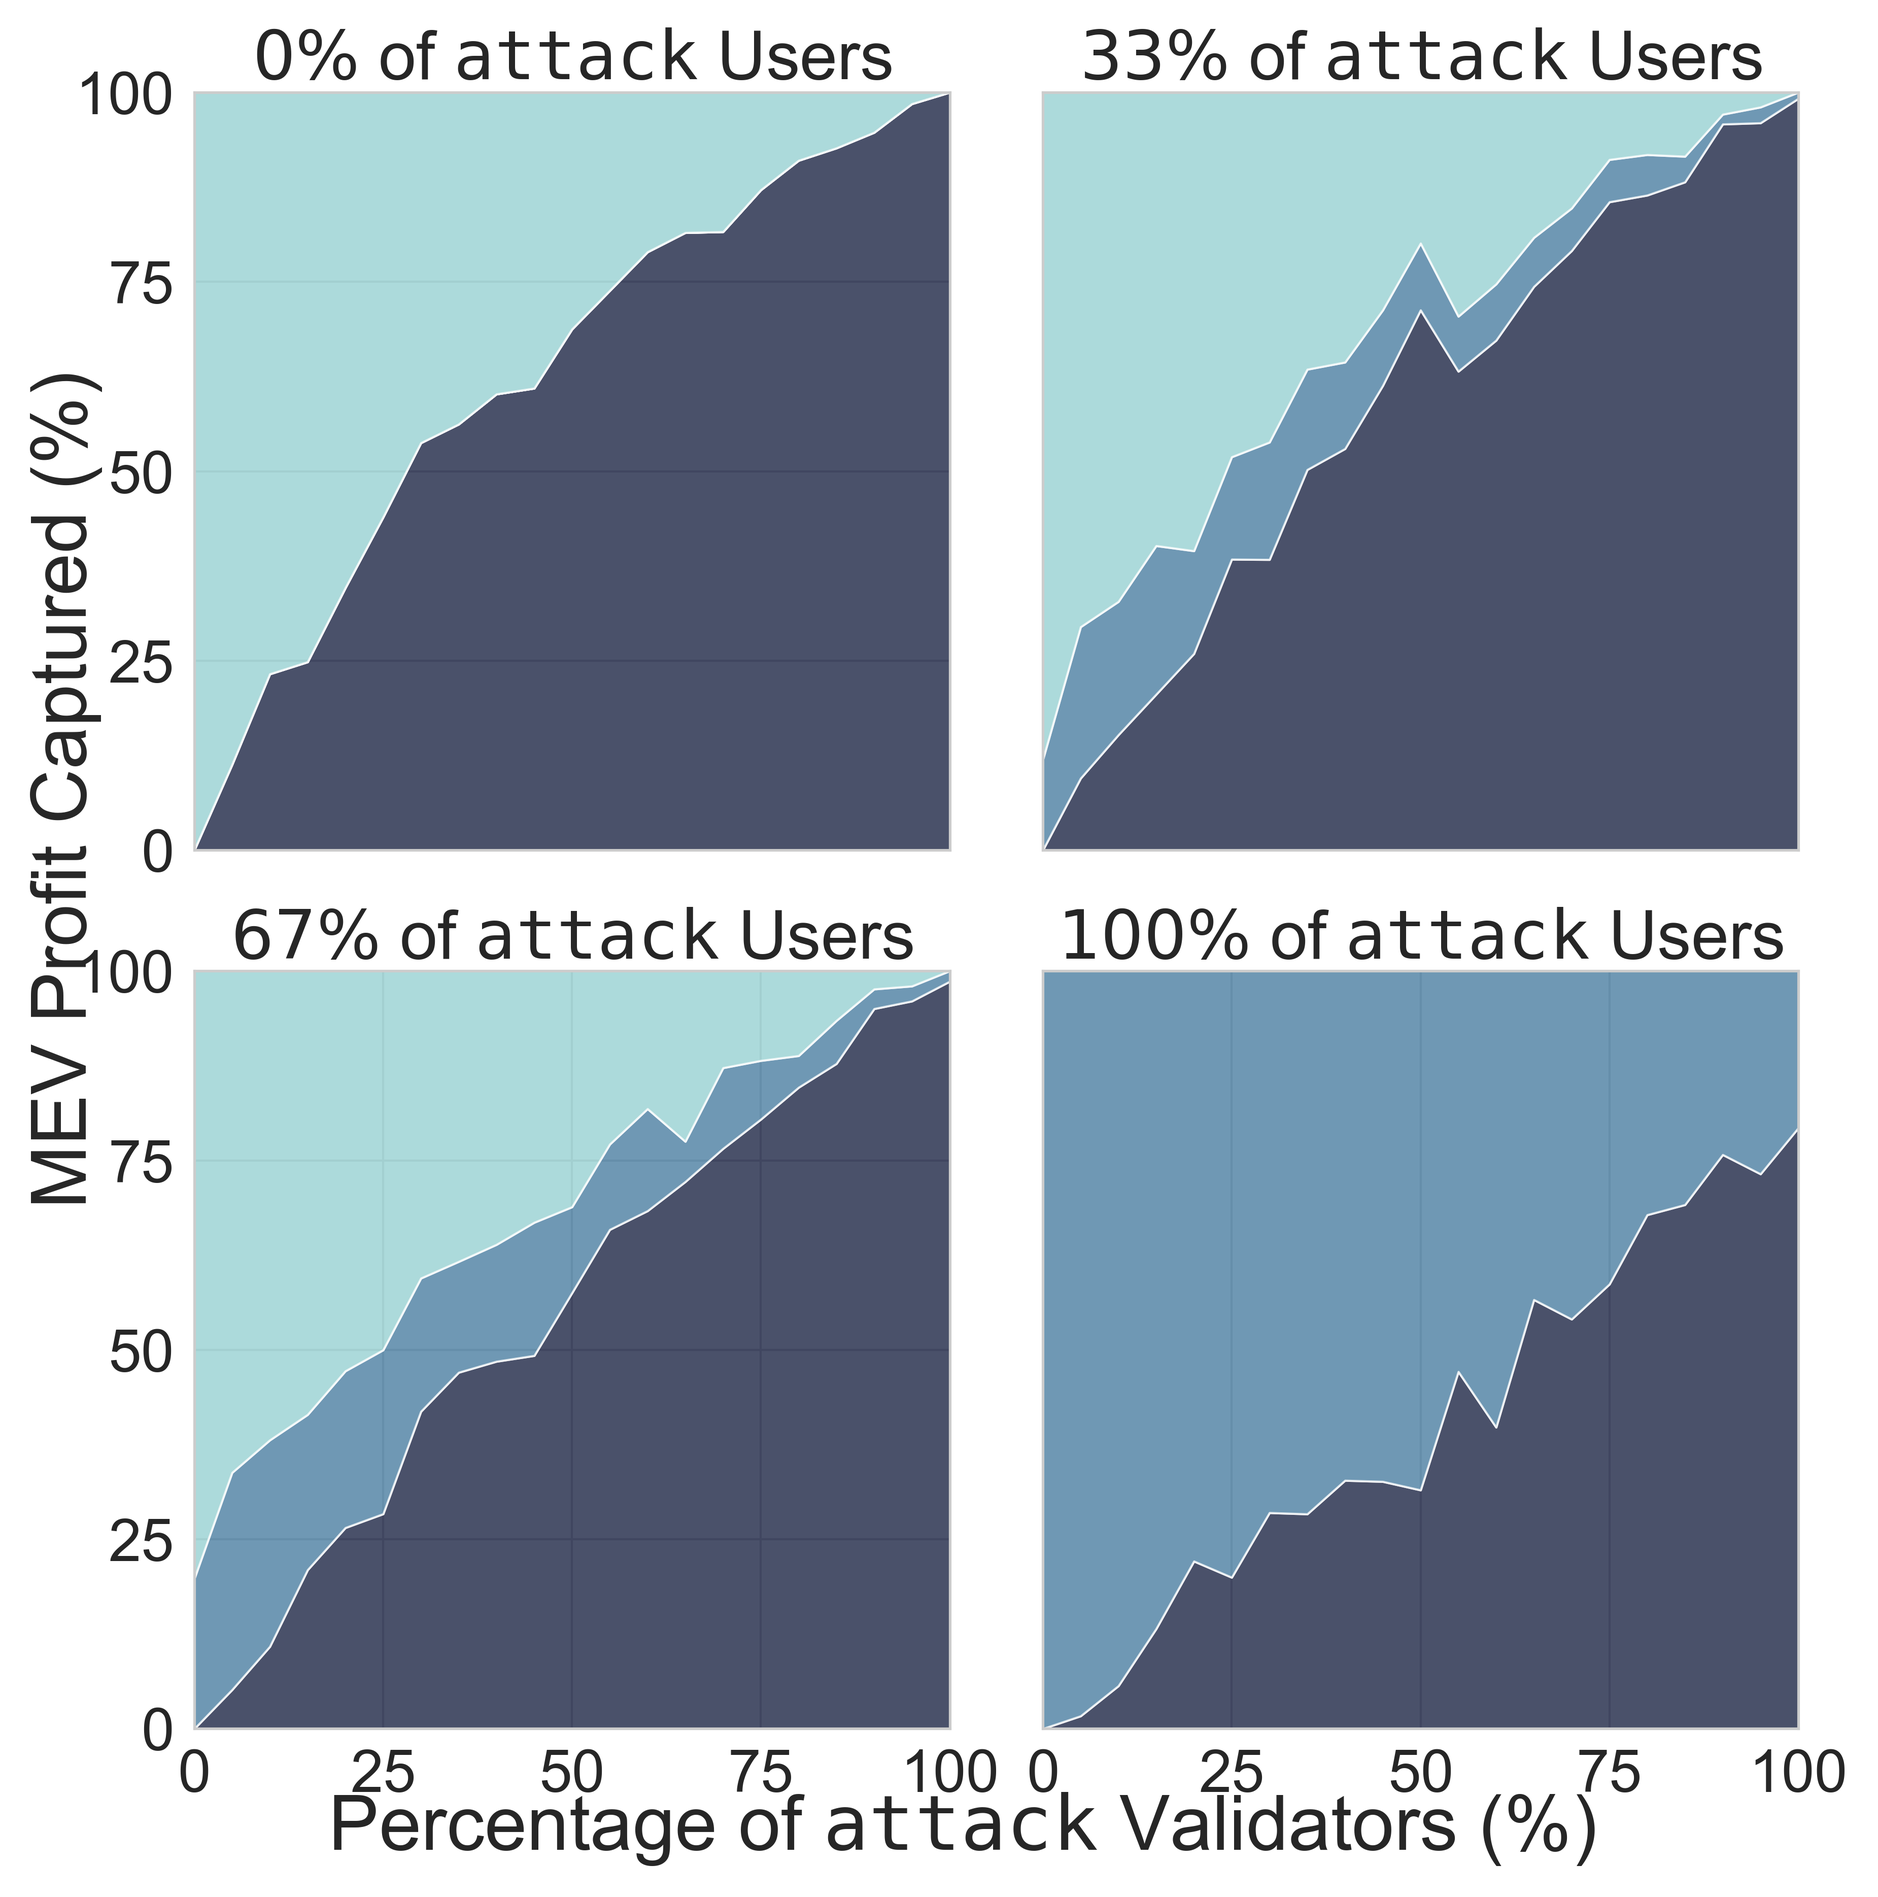
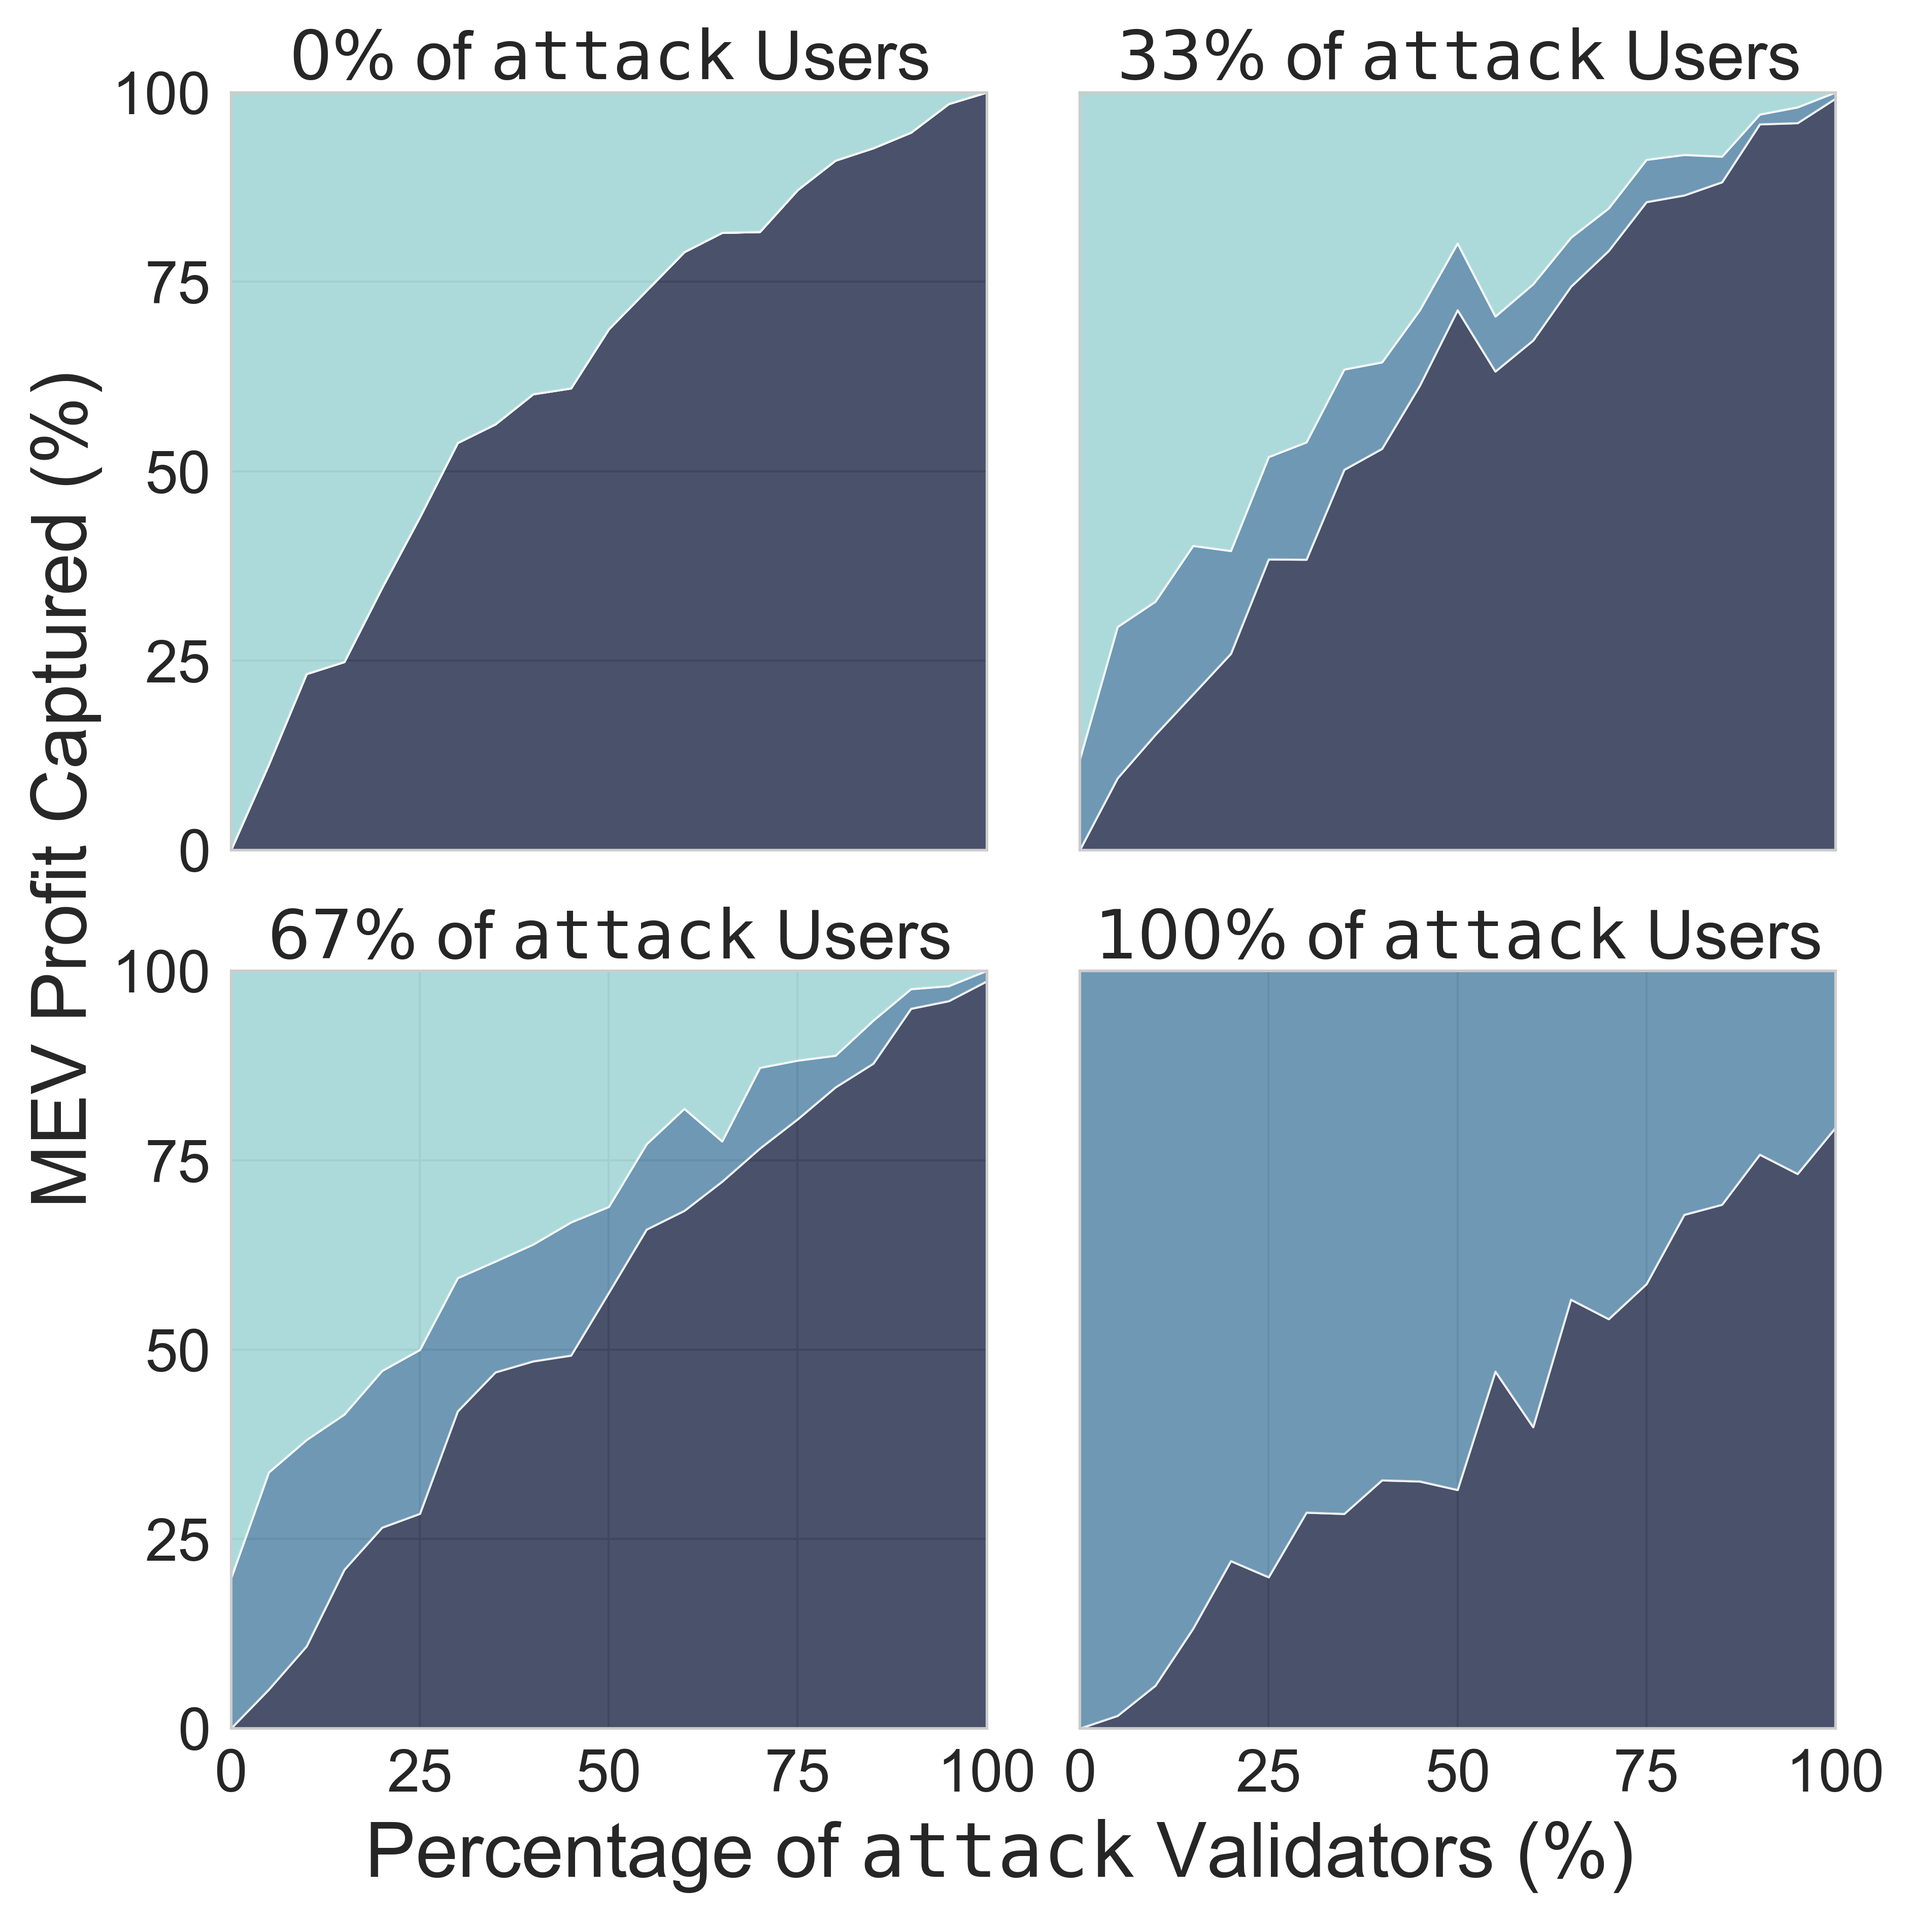
spacing fix

diff --git a/plots/ss/grouped_plots.py b/plots/ss/grouped_plots.py
@@ -110,8 +110,8 @@ def create_pos_grouped_plot():
     axes[1, 1].set_yticks([])
     
     # Add centered axis labels for the entire figure with proper spacing
-    fig.text(0.5, -0.01, r'Percentage of $\mathtt{attack}$ Validators (%)', ha='center', fontsize=36)
-    fig.text(0.01, 0.35, 'MEV Profit Captured (%)', ha='center', rotation=90, fontsize=36)
+    fig.text(0.5, -0.025, r'Percentage of $\mathtt{attack}$ Validators (%)', ha='center', fontsize=36)
+    fig.text(-0.01, 0.35, 'MEV Profit Captured (%)', ha='center', rotation=90, fontsize=36)
     
     # Adjust layout
     plt.tight_layout()
@@ -168,8 +168,8 @@ def create_pbs_grouped_plot():
     axes[1, 1].set_yticks([])
     
     # Add centered axis labels for the entire figure with proper spacing
-    fig.text(0.5, -0.01, r'Percentage of $\mathtt{attack}$ Builders (%)', ha='center', fontsize=36)
-    fig.text(0.01, 0.35, 'MEV Profit Captured (%)', ha='center', rotation=90, fontsize=36)
+    fig.text(0.5, -0.025, r'Percentage of $\mathtt{attack}$ Builders (%)', ha='center', fontsize=36)
+    fig.text(-0.01, 0.35, 'MEV Profit Captured (%)', ha='center', rotation=90, fontsize=36)
     
     # Adjust layout
     plt.tight_layout()
